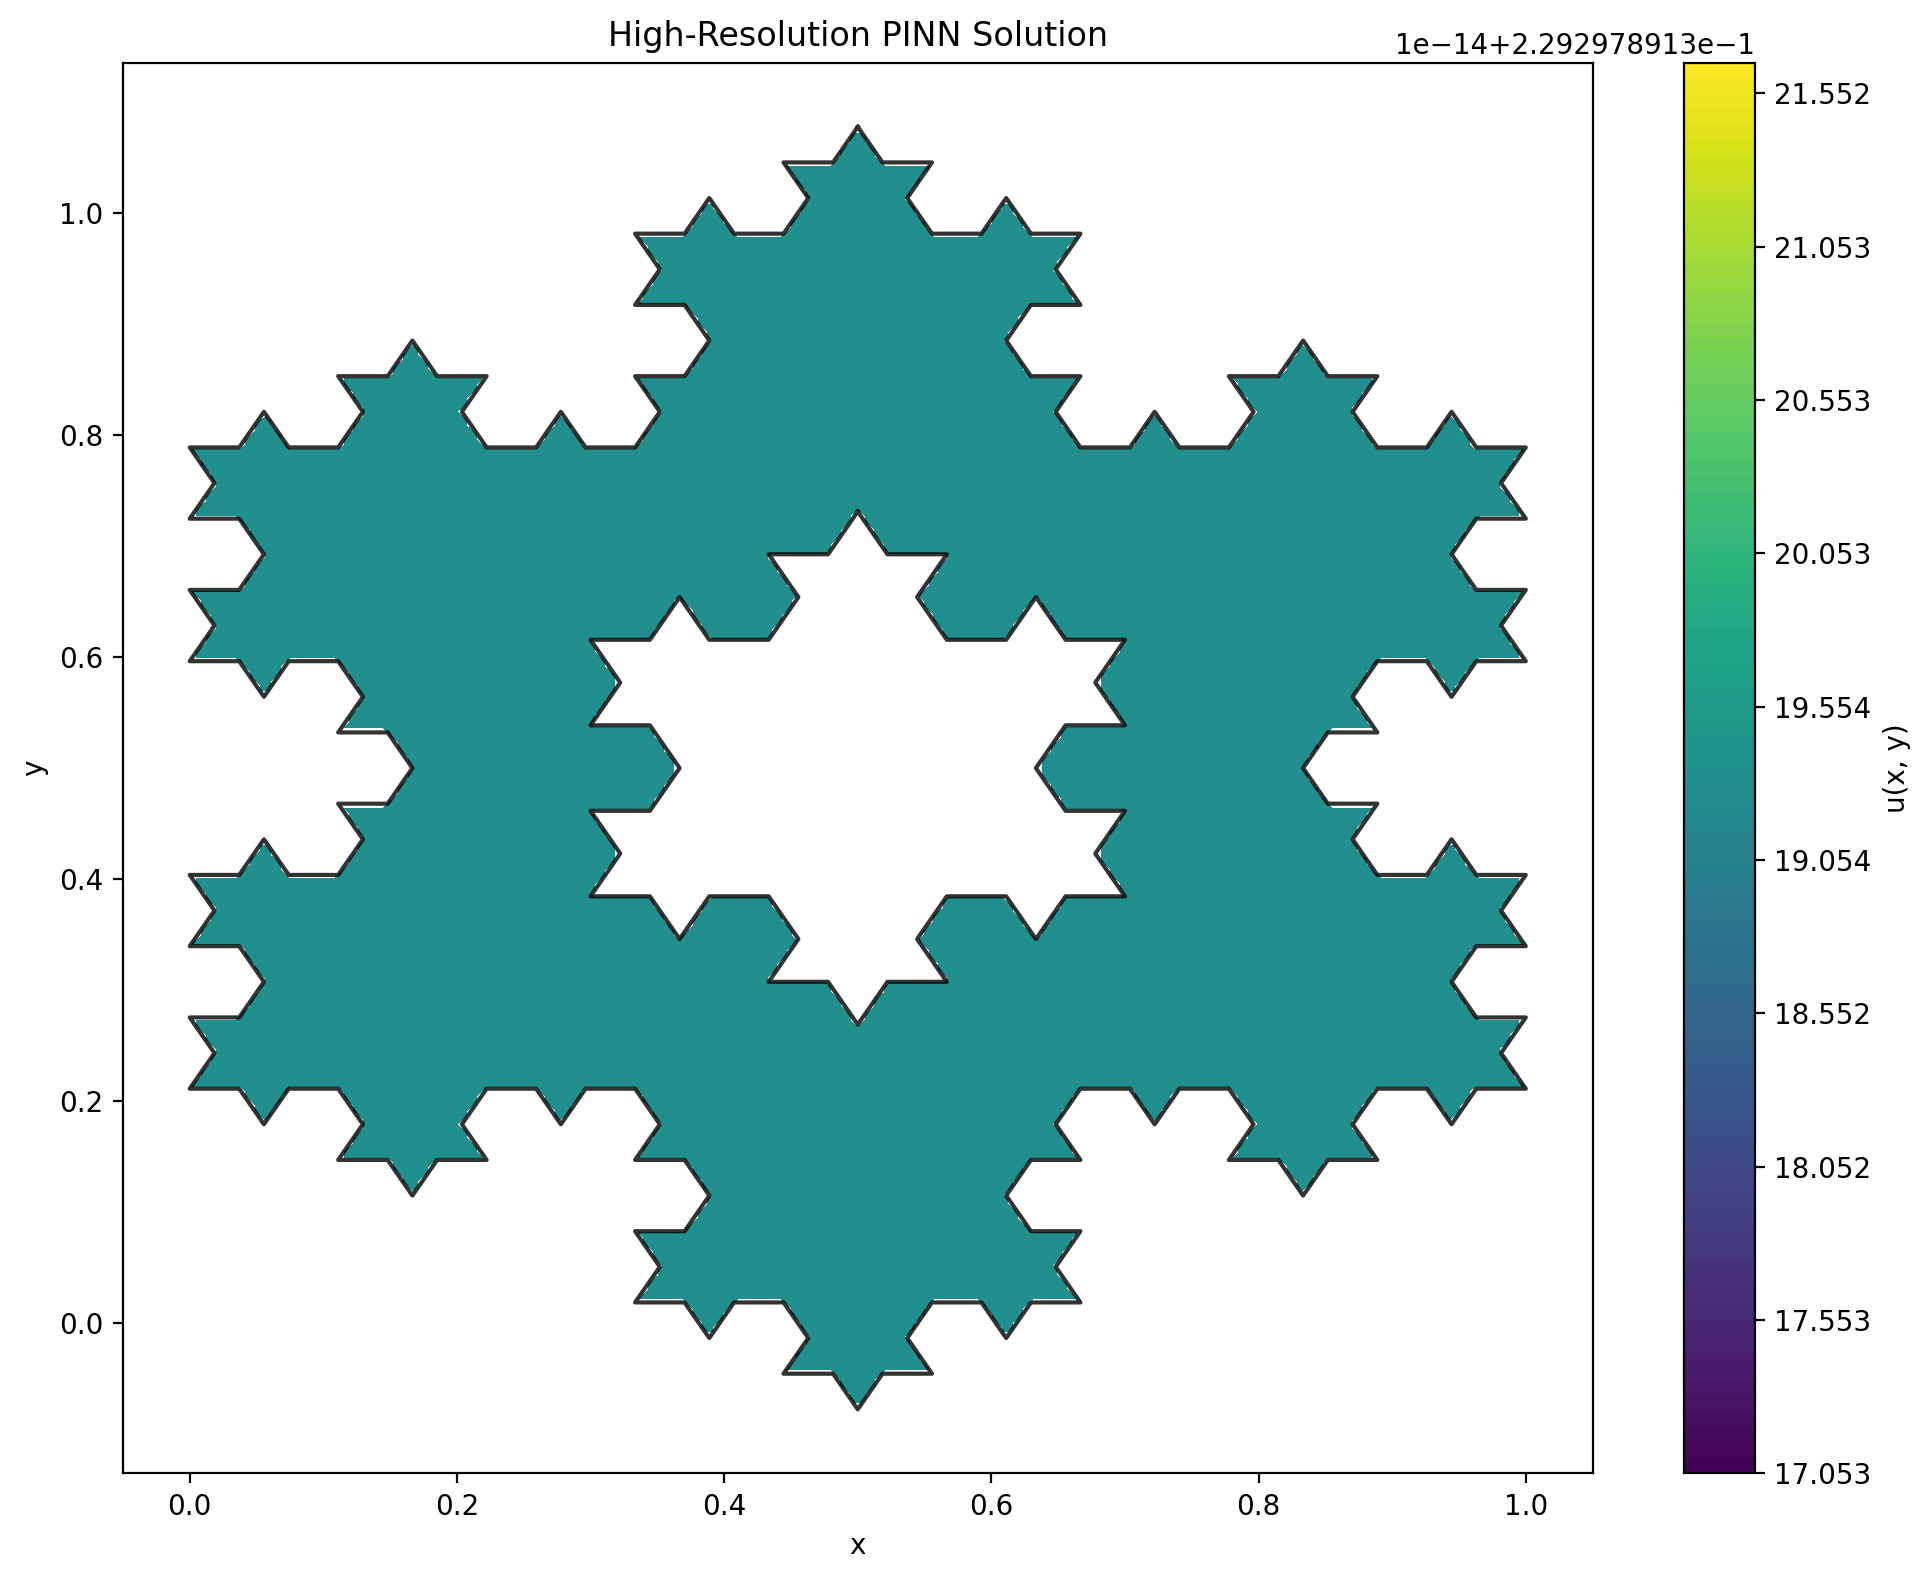
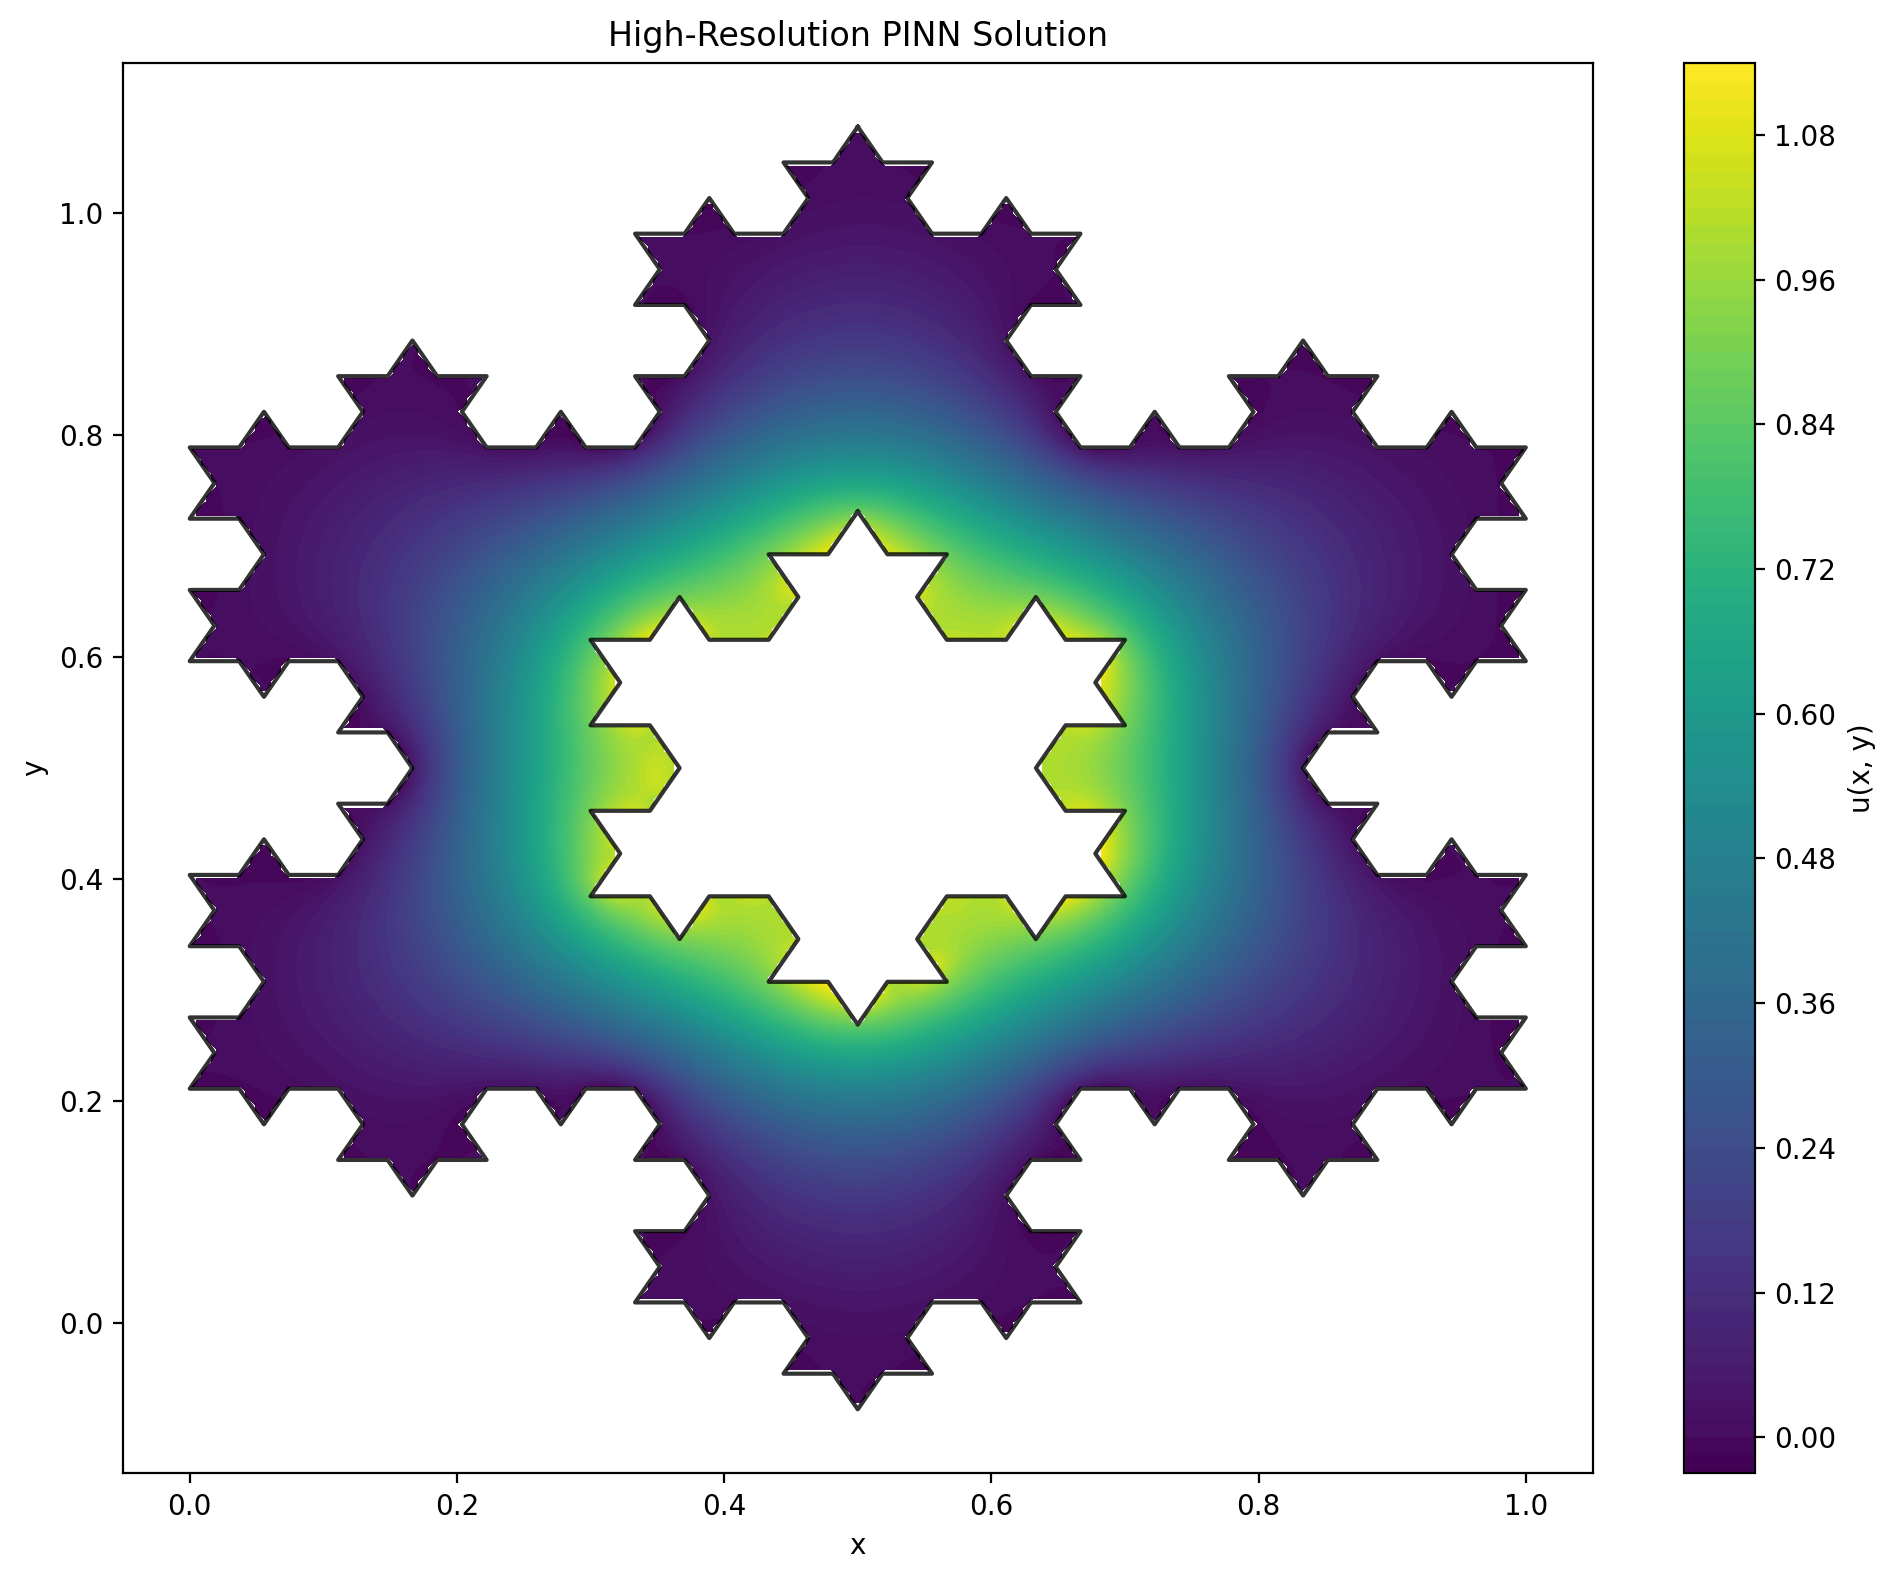
feat: implement numerical stability refinements and unified resolution
- Harmonize Adam and L-BFGS sampling resolutions to prevent loss jumps
- Implement linear boundary weight warmup (10.0 -> target)
- Add ReduceLROnPlateau scheduler with .detach() fix
- Implement gradient clipping (max_norm=0.5) for SIREN stability
- Add explicit tests for RAR error-targeting and range-targeting logic
- Unified test suite now contains 64 verified tests passing in CUDA/CPU

diff --git a/main.py b/main.py
@@ -68,28 +68,38 @@ def train(domain=None, bc_fn=None, f_fn=None, config=None) -> torch.nn.Module:
     
     # Stage 1: Adam
     optimizer_adam = optim.Adam(model.parameters(), lr=cfg["adam_lr"])
+    # Tighter patience for faster adjustment
+    scheduler = optim.lr_scheduler.ReduceLROnPlateau(optimizer_adam, 'min', patience=200, factor=0.5)
+    
+    # Unified Resolution: Match Adam and L-BFGS to prevent loss jumps
+    n_points_d = cfg["lbfgs_points_domain"]
+    n_points_b = cfg["lbfgs_points_bc"]
     
     # Initialize points
-    x_domain, y_domain = generate_domain_data(cfg["adam_points_domain"], device=device, domain=domain)
+    x_domain, y_domain = generate_domain_data(n_points_d, device=device, domain=domain)
     
     print(f"--- Stage 1: Adam Optimization ({cfg['adam_epochs']} epochs) ---")
     for epoch in range(cfg["adam_epochs"]):
+        # Dynamic Boundary Weighting (Warmup)
+        # Gradually increase lambda_bc from 10.0 to the target cfg value
+        current_lambda_bc = min(cfg["lambda_bc"], 10.0 + (cfg["lambda_bc"] - 10.0) * (epoch / (cfg["adam_epochs"] * 0.5)))
+        
         # Periodic resampling
         if cfg["use_adaptive_sampling"] and epoch % cfg["adaptive_every"] == 0:
             x_domain, y_domain = generate_adaptive_domain_data(
-                model, cfg["adam_points_domain"], device=device, domain=domain, f_fn=f_fn, config=cfg
+                model, n_points_d, device=device, domain=domain, f_fn=f_fn, config=cfg
             )
         elif not cfg["use_adaptive_sampling"]:
             # Standard random resampling
-            x_domain, y_domain = generate_domain_data(cfg["adam_points_domain"], device=device, domain=domain)
+            x_domain, y_domain = generate_domain_data(n_points_d, device=device, domain=domain)
             
-        x_bc, y_bc, u_bc = generate_boundary_data(cfg["adam_points_bc"], device=device, domain=domain, bc_fn=bc_fn)
+        x_bc, y_bc, u_bc = generate_boundary_data(n_points_b, device=device, domain=domain, bc_fn=bc_fn)
         
         optimizer_adam.zero_grad()
         loss_pde = poisson_loss(model, x_domain, y_domain, f_fn=f_fn)
         loss_bc = boundary_loss(model, x_bc, y_bc, u_bc)
         
-        total_loss = loss_pde + cfg["lambda_bc"] * loss_bc
+        total_loss = loss_pde + current_lambda_bc * loss_bc
         
         if cfg["lambda_range"] > 0:
             # Predict on domain to check range
@@ -99,11 +109,16 @@ def train(domain=None, bc_fn=None, f_fn=None, config=None) -> torch.nn.Module:
             total_loss += cfg["lambda_range"] * loss_r
         
         total_loss.backward()
+        
+        # Numerical Safety: Tighter Gradient Clipping
+        torch.nn.utils.clip_grad_norm_(model.parameters(), max_norm=0.5)
+        
         optimizer_adam.step()
+        scheduler.step(total_loss.detach())
         
         if epoch % 500 == 0:
             print(f"Adam Epoch {epoch:4d} | Loss: {total_loss.item():.6f} "
-                  f"(PDE: {loss_pde.item():.6f}, BC: {loss_bc.item():.6f})")
+                  f"(PDE: {loss_pde.item():.6f}, BC: {loss_bc.item():.6f}, L_bc: {current_lambda_bc:.1f})")
 
     # Stage 2: L-BFGS (Fine-tuning)
     print(f"--- Stage 2: L-BFGS Fine-tuning ({cfg['lbfgs_epochs']} iterations) ---")
@@ -275,22 +290,21 @@ def solve_nested_snowflakes_example(config=None):
     print("Nested fractal solution saved to nested_snowflakes.png")
 
 if __name__ == "__main__":
-    # "Final Push" configuration with Adaptive Sampling (RAR)
+    # "Stability-First" configuration: Harmonizing frequencies and resolutions
     config = {
         "num_layers": 6,             
         "hidden_dim": 128,           
         "activation": "sine",
-        "omega": (1.0, 30.0),        
-        "adam_epochs": 2500,         
+        "omega": (1.0, 20.0),        # Reduced max freq to prevent PDE spikes (9800 -> sanity)
+        "adam_epochs": 4000,         # More Adam time to find global structure
         "lbfgs_epochs": 1500,        
-        "adam_points_domain": 2000, 
-        "adam_points_bc": 1500,      
-        "lbfgs_points_domain": 5000, 
-        "lbfgs_points_bc": 3000,
+        "adam_lr": 0.0005,           
+        "lbfgs_points_domain": 4000, 
+        "lbfgs_points_bc": 2000,
         "lambda_bc": 500.0,          
-        "lambda_range": 500.0,       
-        "use_adaptive_sampling": True, # Focus on high-error regions (fractal corners)
-        "adaptive_every": 200,         # Resample error-weighted points every 200 epochs
+        "lambda_range": 200.0,       # Significant pressure to squash 1.36 overshoot
+        "use_adaptive_sampling": True, 
+        "adaptive_every": 200,         
     }
 
     solve_nested_snowflakes_example(config=config)